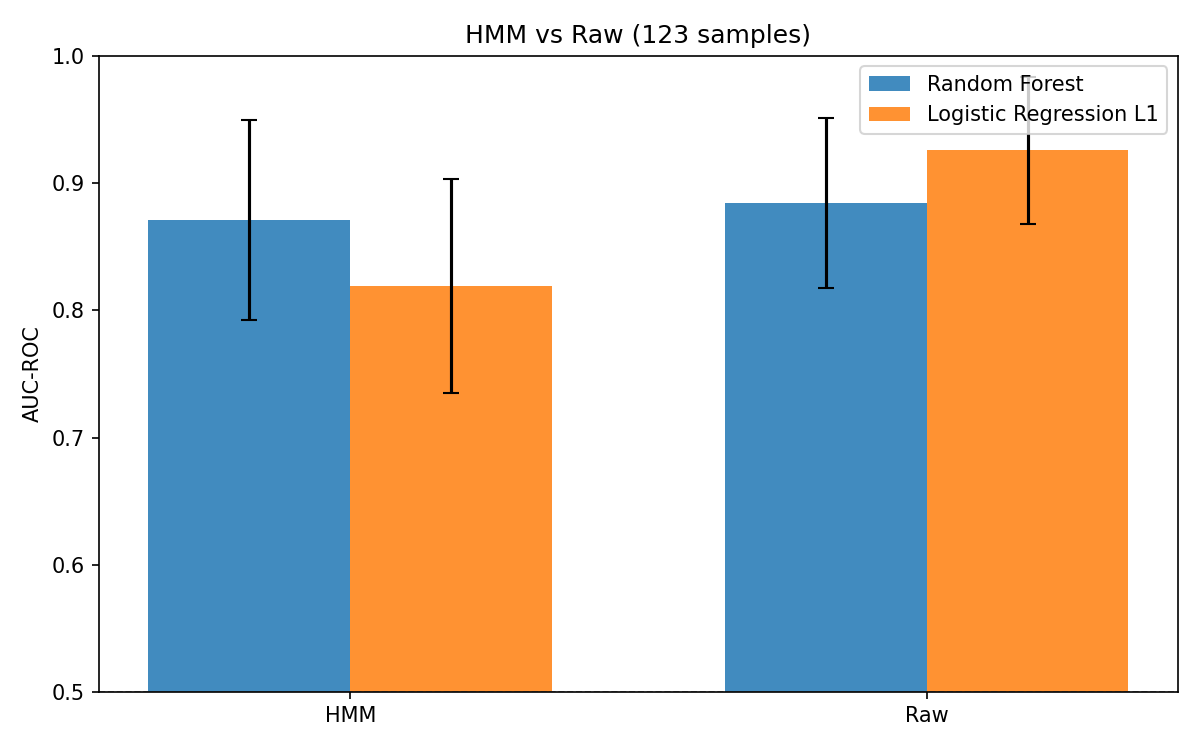
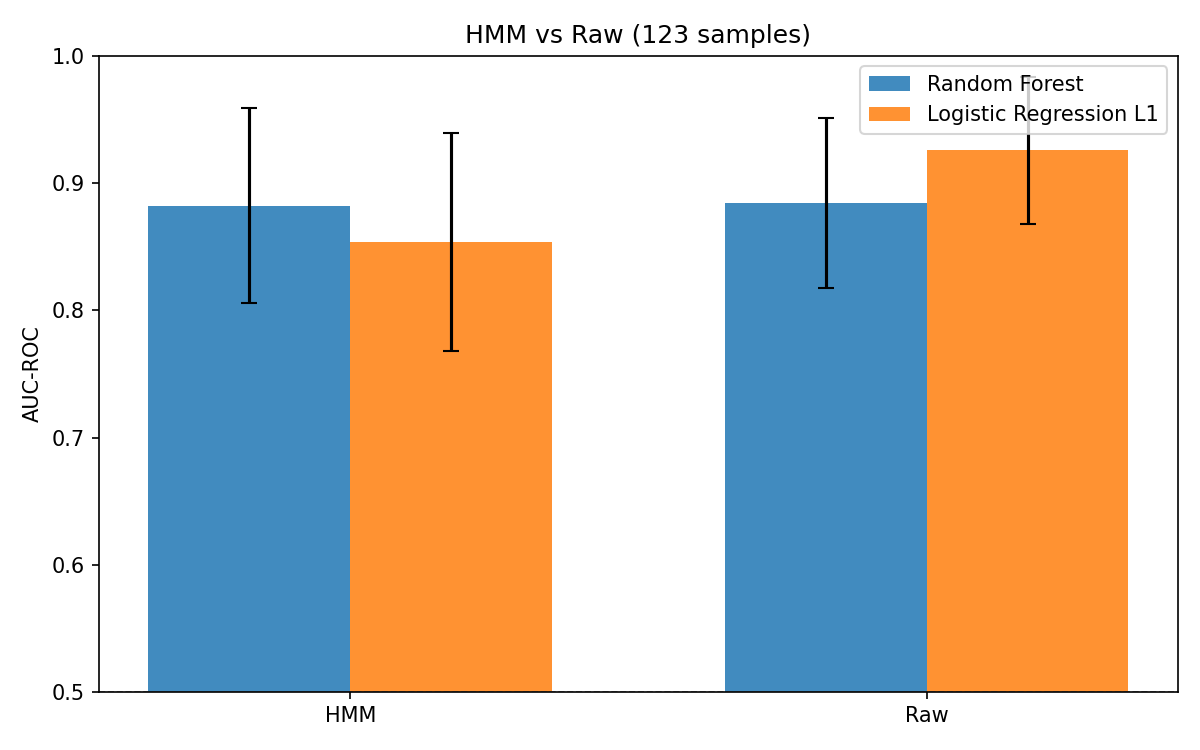
Normalize segment counts by probe density, HMM now beats Raw on F1/BalAcc
Segment counts were confounded by platform density (60K arrays produced
2x more segments than 1M arrays, p=0.003). Normalizing to segments per
10K probes removes this artifact.

Results: HMM RF vs Raw RF
  AUC:    0.882 vs 0.884 (p=0.85, ns — statistically identical)
  F1:     0.592 vs 0.512 (p=0.034, HMM wins)
  BalAcc: 0.719 vs 0.678 (p=0.034, HMM wins)

Changed region(s): [[0.1233, 0.276, 0.4625, 0.3987], [0.185, 0.3987, 0.2158, 0.4293]]

diff --git a/pipeline/05_process.py b/pipeline/05_process.py
@@ -129,6 +129,20 @@ def compute_hmm_features(probe_states_df, labels_dict):
                 i += 1
 
     samples = result.index
+
+    # Normalize segment counts by probe count per sample
+    # (removes platform density confound: 60K arrays produce more segments than 1M)
+    sample_probe_counts = df.groupby("sample_id").size()
+    for s in samples:
+        n_probes = sample_probe_counts.get(s, 1)
+        # Segments per 10K probes — comparable across platforms
+        scale = 10000.0 / n_probes
+        seg[s]["n_seg"] *= scale
+        seg[s]["n_del_seg"] *= scale
+        seg[s]["n_amp_seg"] *= scale
+        for arm in arm_seg_count[s]:
+            arm_seg_count[s][arm] *= scale
+
     result["n_segments"] = [seg[s]["n_seg"] for s in samples]
     result["n_del_segments"] = [seg[s]["n_del_seg"] for s in samples]
     result["n_amp_segments"] = [seg[s]["n_amp_seg"] for s in samples]
